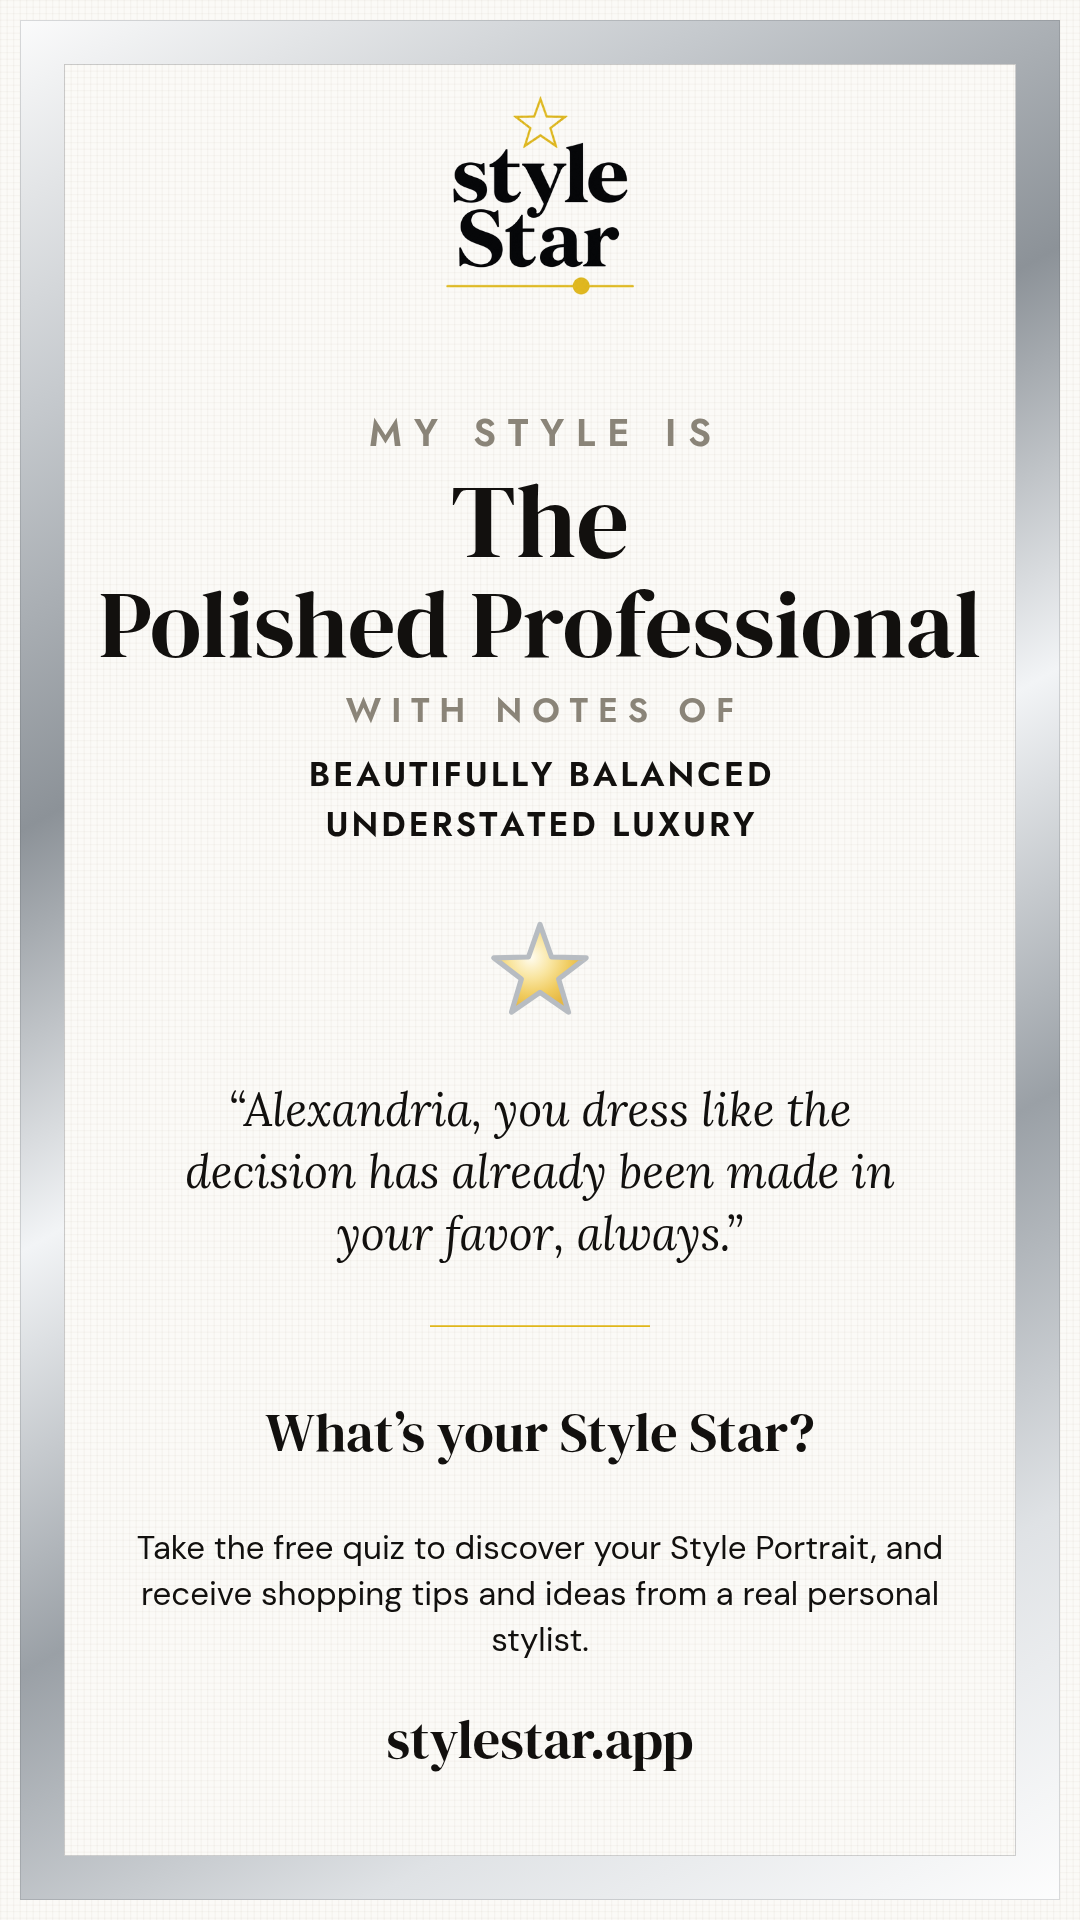
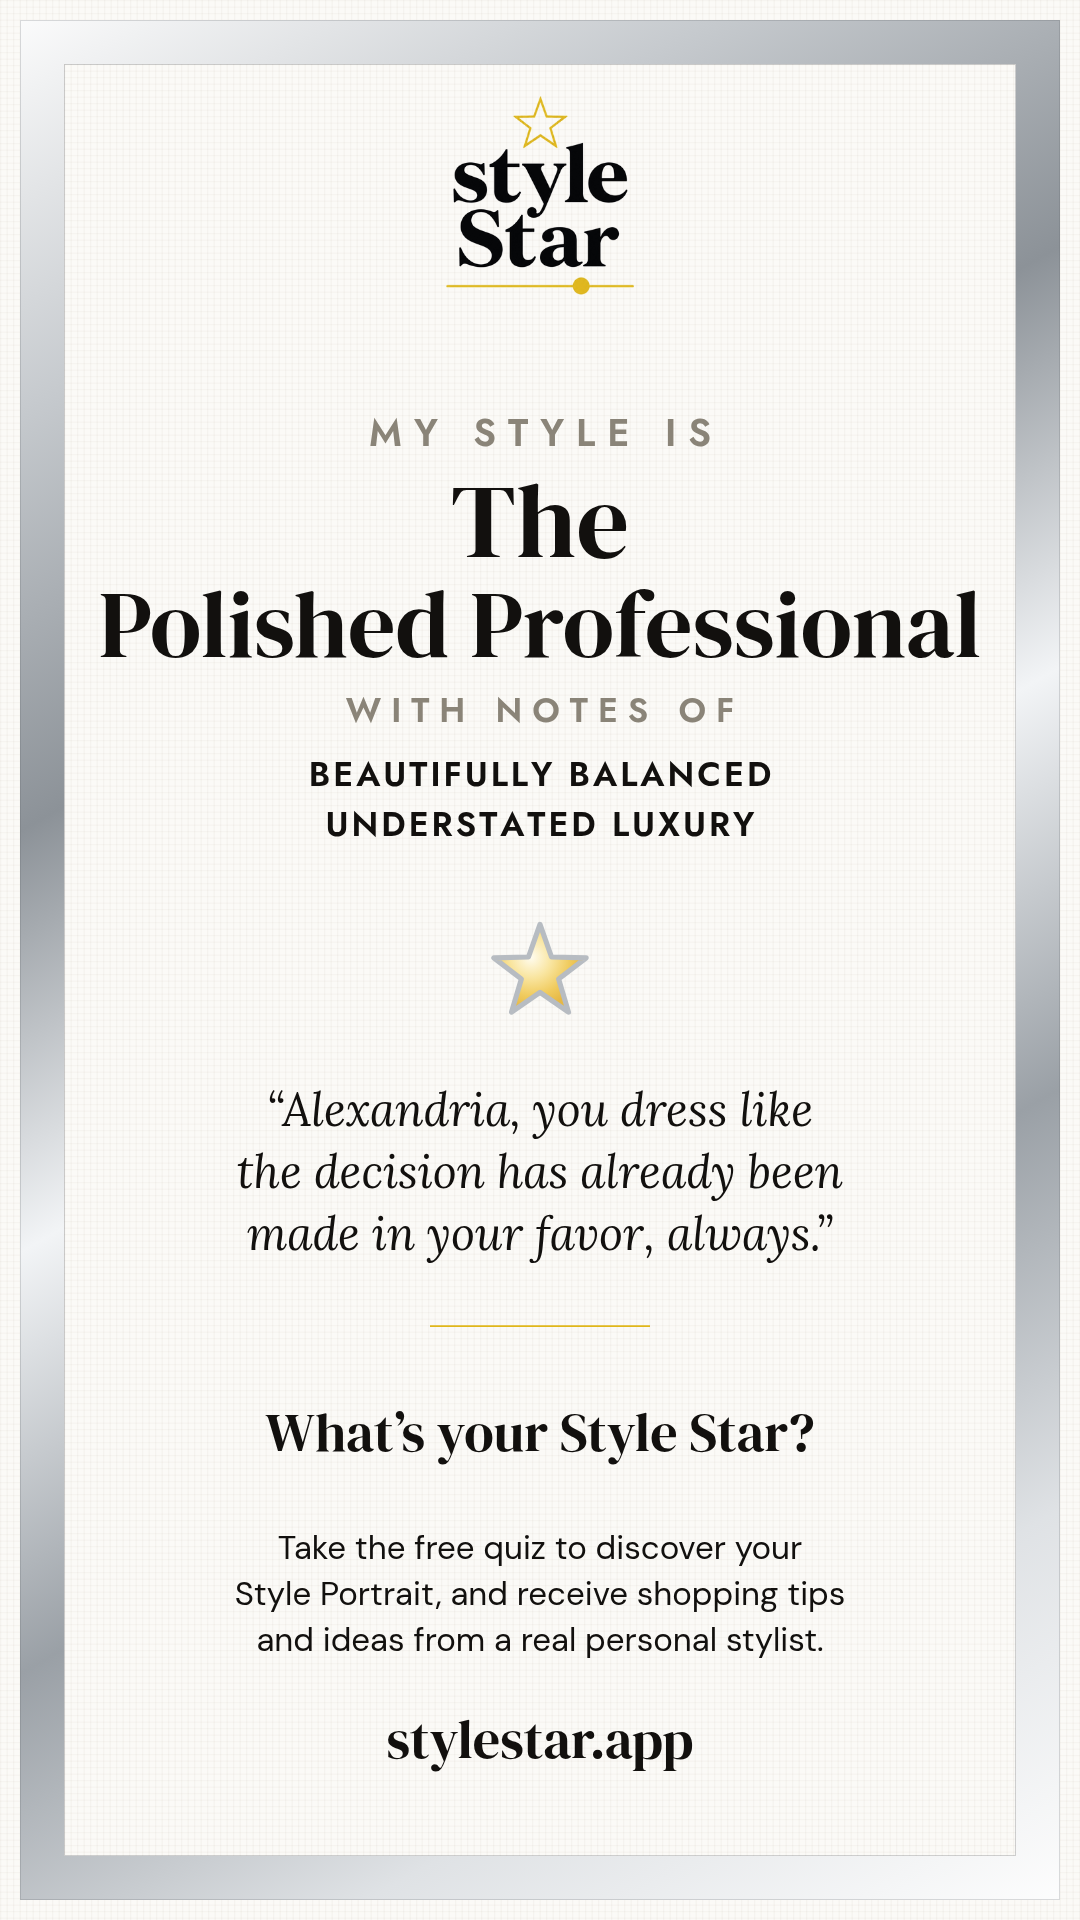
No more lone "stylist." - the sentence balances
Her catch: the last line of the invitation was the single word
"stylist." sitting alone at the foot of the card.

THE CAUSE IS THE WRAPPER, NOT THE WORDING. wrap() is greedy: it packs
each line as full as it will go and whatever is left over becomes the
last line. Three lines came out 806 / 798 / 98px. So the fix is not to
reword her sentence, it is to stop wrapping greedily.

NEW wrapBalanced(): find the NARROWEST width that still fits the text
in the same number of lines, and wrap to that. Same idea the app
already reaches for in CSS wherever a widow turns up, done for canvas.
The line count never changes and the font never shrinks, so no other
part of the card moves - the words just distribute instead of piling up
at the top. Applied to the motto too: a lone word is just as ugly
there, and her generated mottos vary in length so it is a matter of
time.

AND A NON-BREAKING SPACE IN "Style Portrait": balancing alone put the
line break through the middle of the name of the thing she is
offering. Held together it comes out MORE even, not less - 524/611/567
against 610/592/501 - so it costs nothing to keep whole. There is a
comment saying not to tidy it back.

⚠ AND THE FONT TRAP CAUGHT ME AGAIN, FOURTH TIME THIS SESSION: the
first comparison of the three wraps was run on a bare canvas whose face
had never been loaded, so every width was measured in fallback DM Sans
and it reported that plain balancing already kept "Style Portrait"
[…]

Changed region(s): [[0.1222, 0.7812, 0.8556, 0.875], [0.1833, 0.5625, 0.825, 0.6562]]

diff --git a/index.html b/index.html
@@ -12075,6 +12075,25 @@ function buildCardBlob(source,callback){
     if(line)lines.push(line);
     return lines;
   }
+  /* text-wrap:balance, for canvas. Plain wrap() is GREEDY: it packs each line as
+     full as it will go and whatever is left over becomes the last line, which is
+     how "stylist." ended up alone at the foot of the card (her catch).
+     ▶ The fix is the same one the app already uses in CSS wherever a widow turns
+     up: find the NARROWEST width that still fits the text in the same number of
+     lines, and wrap to that. The line count never changes and the font never
+     shrinks, so nothing else about the layout moves - the words just distribute
+     evenly instead of piling up at the top.
+     ⚠ Reads ctx.font, exactly like wrap(). Set the face before calling. */
+  function wrapBalanced(text,maxW){
+    const full=wrap(text,maxW);
+    if(full.length<2)return full;
+    let lo=1,hi=maxW,best=maxW;
+    while(lo<=hi){
+      const mid=(lo+hi)>>1;
+      if(wrap(text,mid).length<=full.length){best=mid;hi=mid-1}else lo=mid+1;
+    }
+    return wrap(text,best);
+  }
   /* HER star, not a generic one: this is _SHOP_STAR_SVG, the shiny gold star
      that spins while Shop your style is thinking — a radial gold gradient with a
      SILVER outline. Her call, and it is the right one twice over: it is already
@@ -12193,7 +12212,12 @@ function buildCardBlob(source,callback){
        is computed against a face that never gets used. */
     const PROMISE_FONT='400 33px "DM Sans", sans-serif';
     ctx.font=PROMISE_FONT;
-    const promiseLines=wrap('Take the free quiz to discover your Style Portrait, and receive shopping tips and ideas from a real personal stylist.',W-240);
+    /* ⚠ THE NON-BREAKING SPACE IN "Style\u00a0Portrait" IS DELIBERATE. It is the
+       name of the thing she is offering, so it must not be split across two
+       lines. Balancing alone put the break right through the middle of it; held
+       together it comes out MORE even, not less (524/611/567 against 610/592/501
+       measured in the real face). Do not "tidy" it back to a plain space. */
+    const promiseLines=wrapBalanced('Take the free quiz to discover your Style\u00a0Portrait, and receive shopping tips and ideas from a real personal stylist.',W-240);
     const promiseH=promiseLines.length*46+18;
     const tailBase=58+promiseH+92+52;
 
@@ -12214,7 +12238,7 @@ function buildCardBlob(source,callback){
     let ms=46,ml,H_MOT,blockH;
     for(;;){
       ctx.font='italic 400 '+ms+'px "Lora", serif';
-      ml=wrap('“'+quote+'”',W-300);
+      ml=wrapBalanced('\u201c'+quote+'\u201d',W-300);
       H_MOT=ml.length*(ms+16)+34;
       blockH=H_LOGO+H_OVER+H_NAME+H_DIV+H_MOT+H_NOT;
       if(blockH<=room||ms<=30)break;
